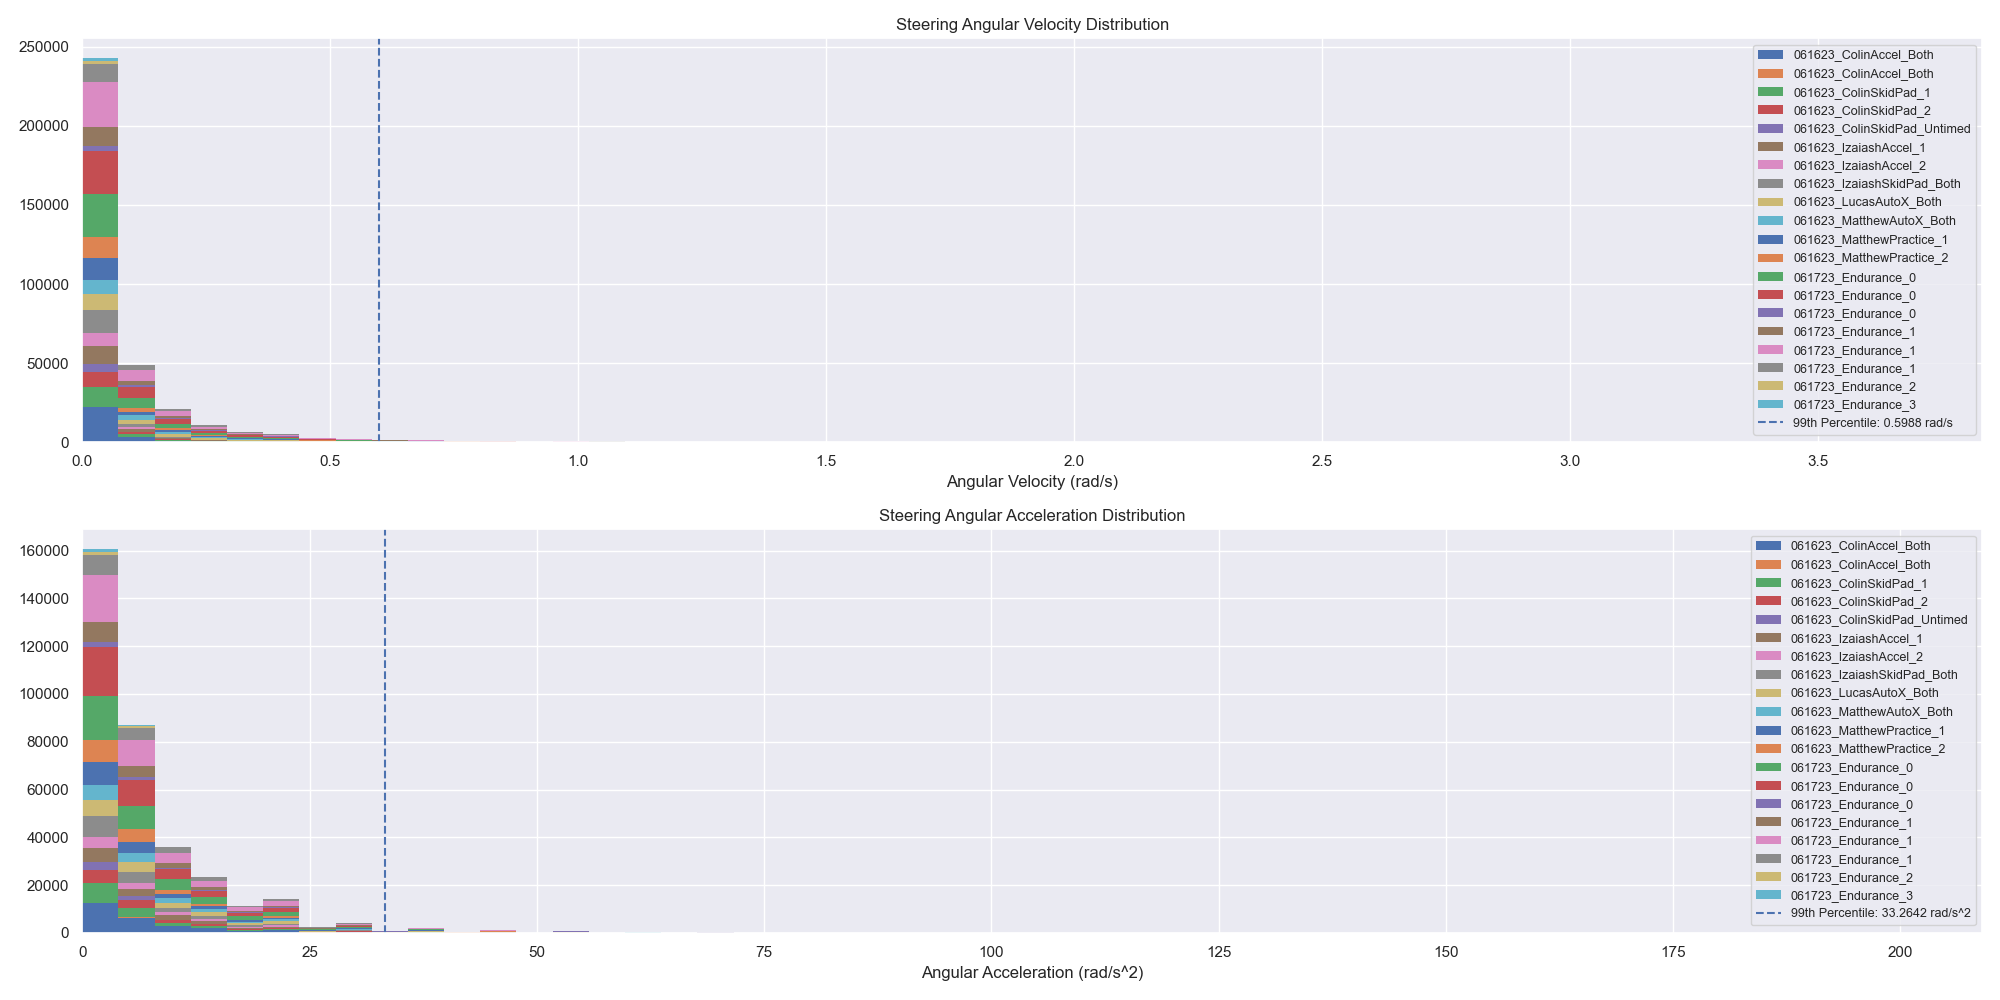
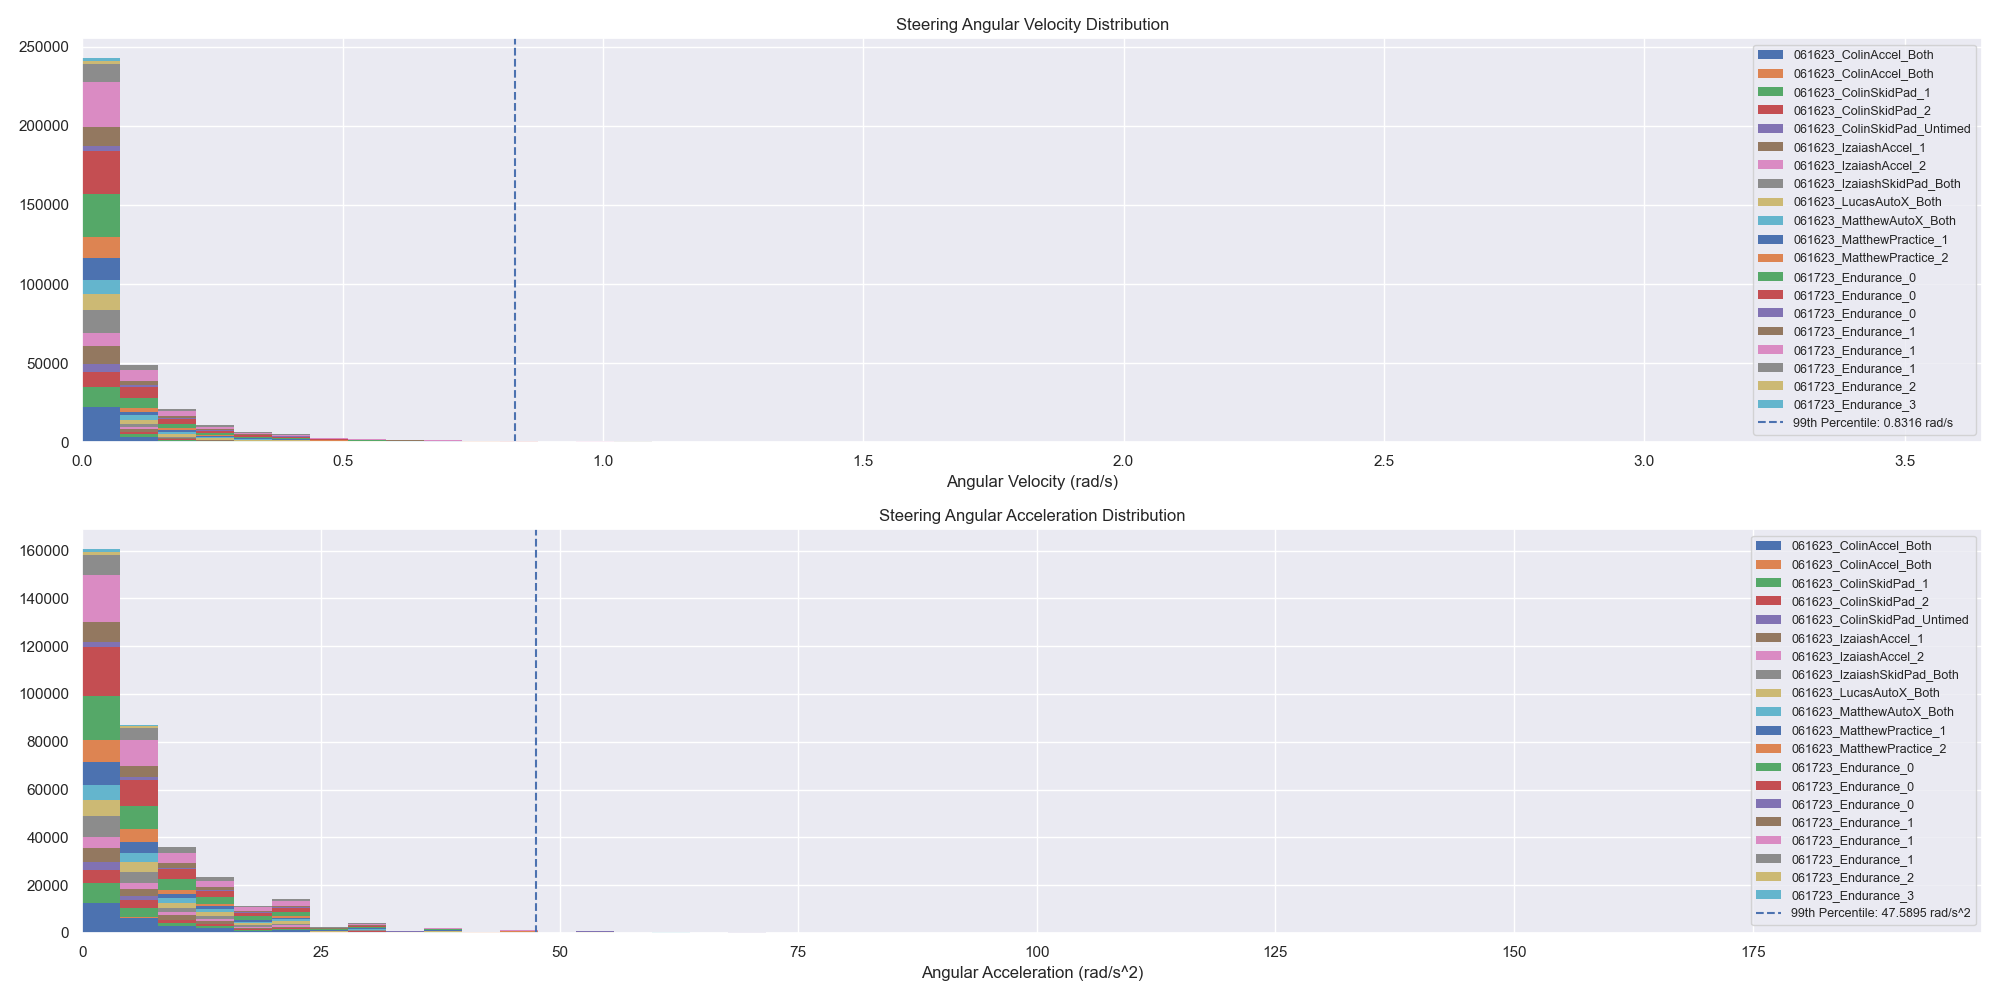
max

Changed region(s): [[0.899, 0.527, 0.992, 0.93], [0.093, 0.868, 0.155, 0.93], [0.496, 0.93, 0.527, 0.961]]

diff --git a/plotter.py b/plotter.py
@@ -65,8 +65,13 @@ for csv in sorted(os.listdir(CSV_DIR)):
 axs2[0].hist([np.abs(vel) for vel in vels], bins=50, stacked=True, edgecolor='none', label=labels)
 axs2[1].hist([np.abs(accel) for accel in accels], bins=50, stacked=True, edgecolor='none', label=labels)
 
-vel_99 = np.percentile(np.concatenate(vels), PERCENTILE)
-accel_99 = np.percentile(np.concatenate(accels), PERCENTILE)
+vels = np.abs(np.concatenate(vels))
+accels = np.abs(np.concatenate(accels))
+vel_99 = np.percentile(vels, PERCENTILE)
+accel_99 = np.percentile(accels, PERCENTILE)
+vel_max = np.max(vels)
+accel_max = np.max(accels)
+
 axs2[0].axvline(x=vel_99, linestyle='--', label=f'99th Percentile: {round(vel_99, 4)} rad/s')
 axs2[1].axvline(x=accel_99, linestyle='--', label=f'99th Percentile: {round(accel_99, 4)} rad/s^2')
 
@@ -75,10 +80,13 @@ axs1[1].legend(loc='upper right', fontsize='9')
 axs1[2].legend(loc='upper right', fontsize='9')
 axs2[0].legend(loc='upper right', fontsize='9')
 axs2[1].legend(loc='upper right', fontsize='9')
-axs2[0].set_xlim(left=0.0)
-axs2[1].set_xlim(left=0.0)
+axs2[0].set_xlim(left=0.0, right=vel_max)
+axs2[1].set_xlim(left=0.0, right=accel_max)
 
 fig1.tight_layout()
 fig1.savefig('steering_pot.png')
 fig2.tight_layout()
 fig2.savefig('steering_dist.png')
+
+print(f"Max Steering Angular Velocity (rad/s): {vel_max}")
+print(f"Max Steering Angular Acceleration (rad/s^2): {accel_max}")
